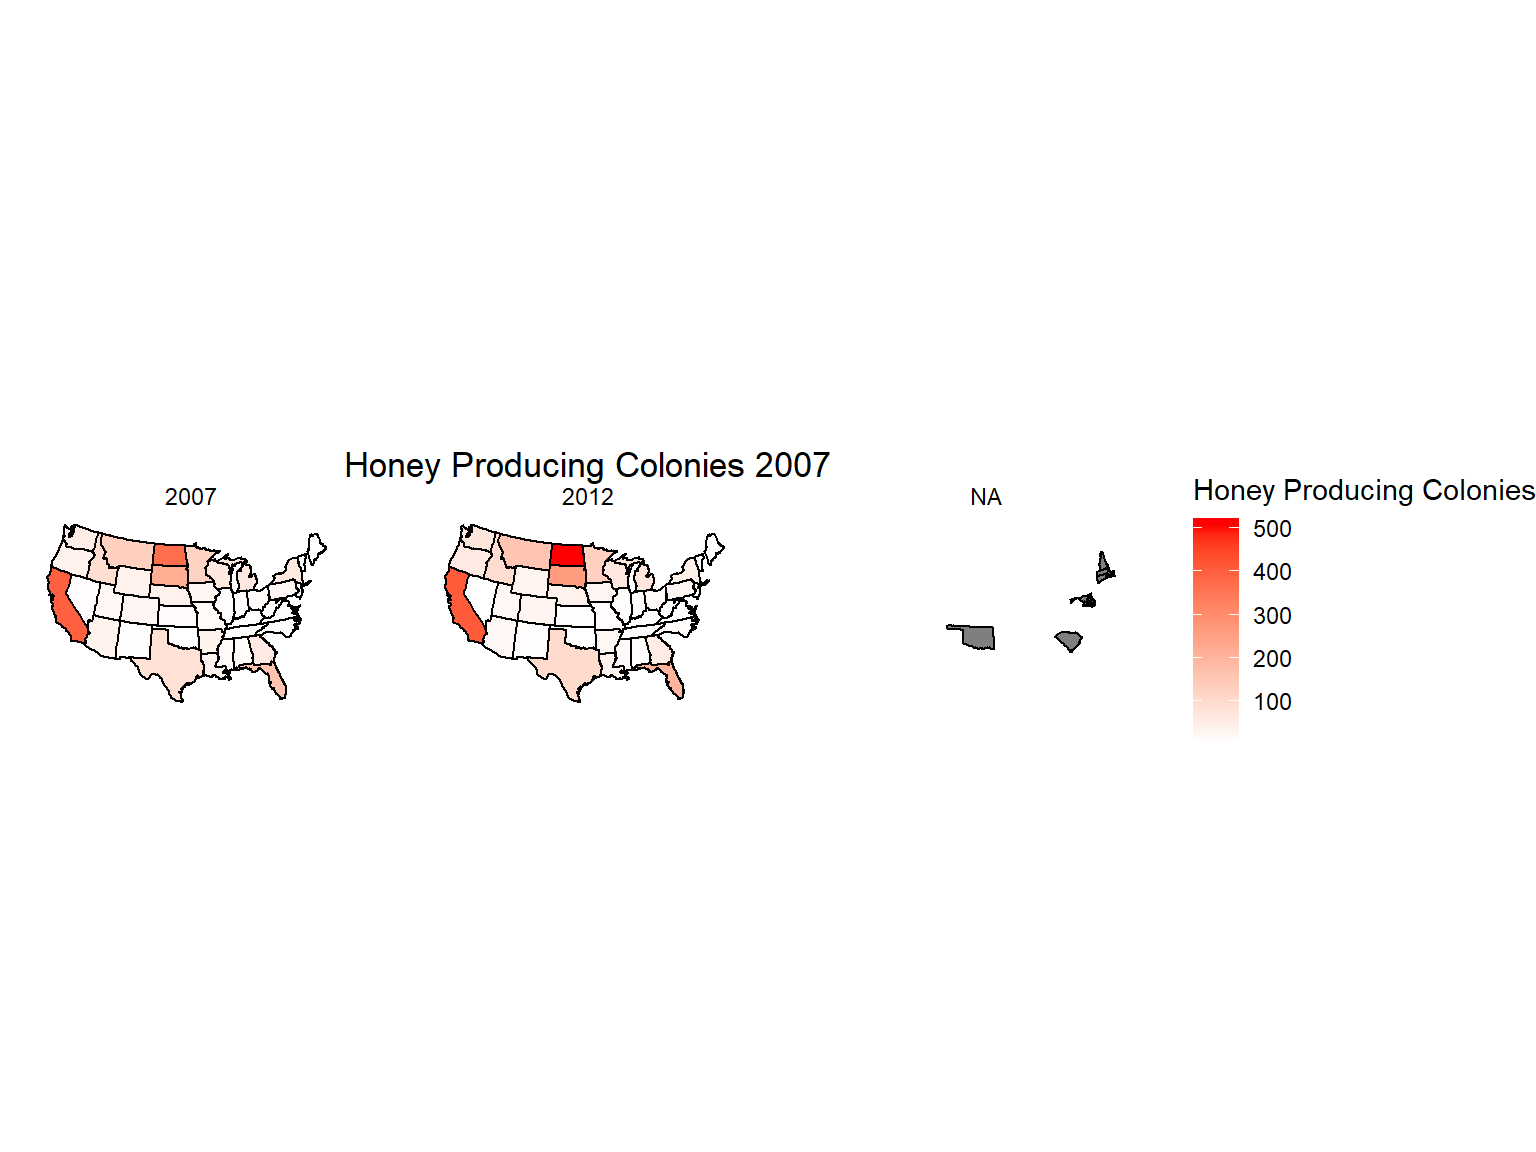
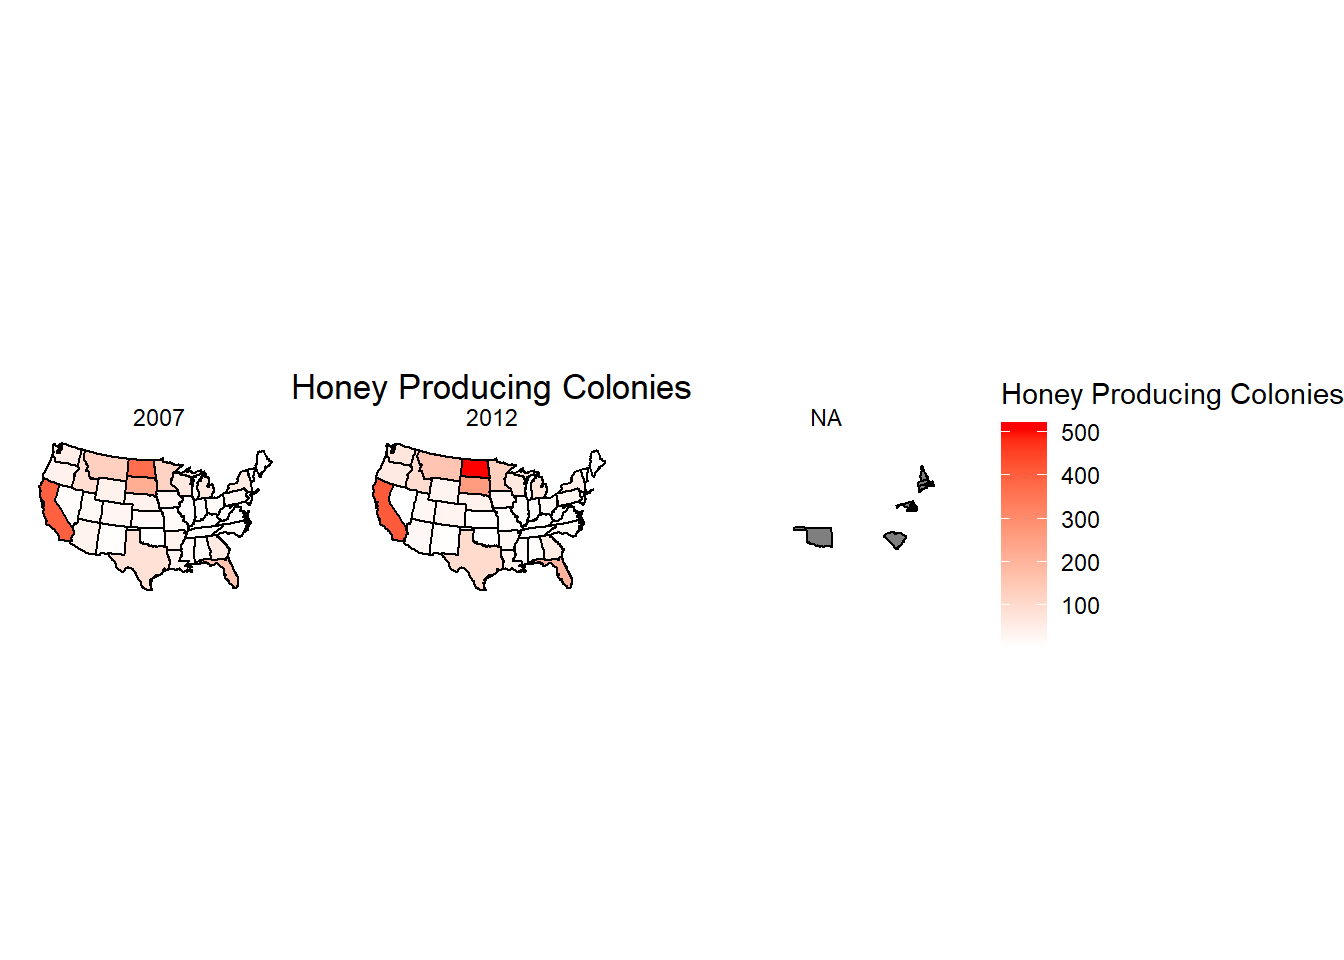
this commit only prints out maps for the top two pesticides. however a random NA map is appearing for the state level data, can someone look into this?

diff --git a/selected_maps.html b/selected_maps.html
@@ -12,7 +12,7 @@
 
 
 
-<title>selected_maps</title>
+<title>Selected Maps</title>
 
 <script src="site_libs/jquery-1.11.3/jquery.min.js"></script>
 <meta name="viewport" content="width=device-width, initial-scale=1" />
@@ -330,30 +330,23 @@ $(document).ready(function () {
 
 
 
-<h1 class="title toc-ignore">selected_maps</h1>
+<h1 class="title toc-ignore">Selected Maps</h1>
 
 </div>
 
 
+<p>Maps for the pesticides with the highest total use, Chlorpyrifos and Chlorthalonil, are displayed here.</p>
 <div id="county-level-maps" class="section level1">
 <h1><strong>County Level Maps</strong></h1>
 <p><br></p>
 <p><em>Pesticides</em></p>
 <pre class="r"><code>CHLOROTHALONIL_map </code></pre>
-<p><img src="selected_maps_files/figure-html/printing%20maps-1.png" width="90%" /></p>
+<p><img src="selected_maps_files/figure-html/printing%20maps%20of%20top%20two%20pesticides-1.png" width="672" /></p>
 <pre class="r"><code>CHLORPYRIFOS_map </code></pre>
-<p><img src="selected_maps_files/figure-html/printing%20maps-2.png" width="90%" /></p>
-<pre class="r"><code>CLOTHIANIDIN_map</code></pre>
-<p><img src="selected_maps_files/figure-html/printing%20maps-3.png" width="90%" /></p>
-<pre class="r"><code>FIPRONIL_map</code></pre>
-<p><img src="selected_maps_files/figure-html/printing%20maps-4.png" width="90%" /></p>
-<pre class="r"><code>IMIDACLOPRID_map</code></pre>
-<p><img src="selected_maps_files/figure-html/printing%20maps-5.png" width="90%" /></p>
-<pre class="r"><code>THIACLOPRID_map</code></pre>
-<p><img src="selected_maps_files/figure-html/printing%20maps-6.png" width="90%" /></p>
+<p><img src="selected_maps_files/figure-html/printing%20maps%20of%20top%20two%20pesticides-2.png" width="672" /></p>
 <p><em>All Bees</em></p>
 <pre class="r"><code>map_county_bees</code></pre>
-<p><img src="selected_maps_files/figure-html/unnamed-chunk-3-1.png" width="90%" /></p>
+<p><img src="selected_maps_files/figure-html/unnamed-chunk-3-1.png" width="672" /></p>
 <p><br></p>
 </div>
 <div id="state-level-maps" class="section level1">
@@ -361,19 +354,13 @@ $(document).ready(function () {
 <p><br></p>
 <p><em>Pesticides</em></p>
 <pre class="r"><code>chlorothalonil_map_state</code></pre>
-<p><img src="selected_maps_files/figure-html/printing%20state%20maps-1.png" width="90%" /></p>
+<p><img src="selected_maps_files/figure-html/printing%20state%20maps%20of%20top%20two%20pesticides-1.png" width="672" /></p>
 <pre class="r"><code>chlorpyrifos_map_state</code></pre>
-<p><img src="selected_maps_files/figure-html/printing%20state%20maps-2.png" width="90%" /></p>
-<pre class="r"><code>clothianidin_map_state</code></pre>
-<p><img src="selected_maps_files/figure-html/printing%20state%20maps-3.png" width="90%" /></p>
-<pre class="r"><code>imidacloprid_map_state</code></pre>
-<p><img src="selected_maps_files/figure-html/printing%20state%20maps-4.png" width="90%" /></p>
-<pre class="r"><code>thiacloprid_map_state</code></pre>
-<p><img src="selected_maps_files/figure-html/printing%20state%20maps-5.png" width="90%" /></p>
+<p><img src="selected_maps_files/figure-html/printing%20state%20maps%20of%20top%20two%20pesticides-2.png" width="672" /></p>
 <p><br></p>
 <p><em>Honey Bees</em></p>
 <pre class="r"><code>honey_bee_colony_map</code></pre>
-<p><img src="selected_maps_files/figure-html/unnamed-chunk-4-1.png" width="90%" /></p>
+<p><img src="selected_maps_files/figure-html/unnamed-chunk-4-1.png" width="672" /></p>
 </div>
 
 
